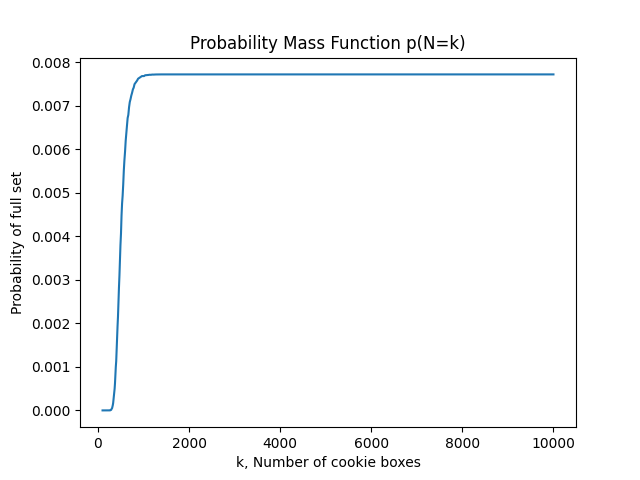
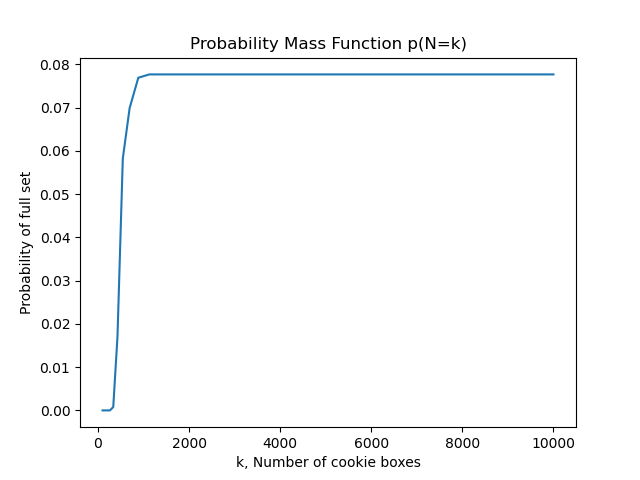
Committing long run images that were leftover.

diff --git a/Algorithms/Final Exam/bailey_final.py b/Algorithms/Final Exam/bailey_final.py
@@ -167,8 +167,8 @@ def problem3():
     ## Let's go from 100 to 1000 for now
     ## Obviously, we can't get a full set with less than 100... 
     probs = []
-    numTrials = int(1e3)
-    ns = np.logspace(2,4,200,dtype=int)
+    numTrials = int(1e2)
+    ns = np.logspace(2,4,20,dtype=int)
     for n in ns:
         prob = 0.00
         for m in range(0,numTrials):
@@ -216,8 +216,13 @@ def problem4():
     ## Sample X directly, 
     def getX():
         # Generate 48 IID uniform samples
-        xs = np.random.uniform(0,1,size=48)
-        return np.sum(xs)
+        # xs = np.random.uniform(0,1,size=48)
+        # return np.sum(xs)
+        sumx = 0.0
+        for i in range(0,48):
+            sumx += random()
+
+        return sumx
 
     ## and build it's statistics via a monte carlo approach.
     def buildCDF(n):
@@ -229,7 +234,7 @@ def problem4():
         ys = np.linspace(0,1,n)
         return xs, ys
 
-    n = int(1e6)
+    n = int(1e8)
     xs,ys = buildCDF(n)
 
     cdf_interp = interpolate.interp1d(xs,ys)
@@ -255,11 +260,9 @@ def problem4():
     ## Calculate the moments for the approximation
     mu = np.average(xs)
     si = np.var(xs)
-    print(mu)
-    print(si)
 
     ## We're forbidden from using a normally distributed RNG, so we'll use uniform
-    n = int(1e9)
+    n = int(1e4)
     ua = 35
     ub = 48
     scale = ub-ua
@@ -274,7 +277,6 @@ def problem4():
     X = np.random.uniform(ua,ub,size=n)
     #X = np.random.normal(36,1,size=n)
     p36 = np.sum(h(X)*f(X)/g(X))/float(n)
-    print(f"Problem 4:")
     print(f"Importance sampling with normal approximation gives p(X>36): {p36}")
 
     print(f"Problem 4 took {time.time()-start} seconds.")
@@ -314,7 +316,7 @@ def problem5():
     start = time.time()
     ## Parameters.
     m = 60 # points in the autocorrelation function to approximate
-    samples = int(1e7) # samples to use in the approximation
+    samples = int(1e6) # samples to use in the approximation
     throwout = int(1e3) # number of samples to toss out at the beginning
     n = throwout+samples # total number we'll take
 
@@ -374,14 +376,14 @@ from multiprocessing import Process
 
 if __name__ == '__main__':
     p1 = Process(target=problem1)
-    p1.start()
+    #p1.start()
     p2 = Process(target=p2wrapper)
-    p2.start()
+    #p2.start()
     p3 = Process(target=problem3)
-    p3.start()
+    #p3.start()
     p4 = Process(target=problem4)
     p4.start()
     p5 = Process(target=problem5)
-    p5.start()
+    #p5.start()
 
-    p2.join()
+    p4.join()
